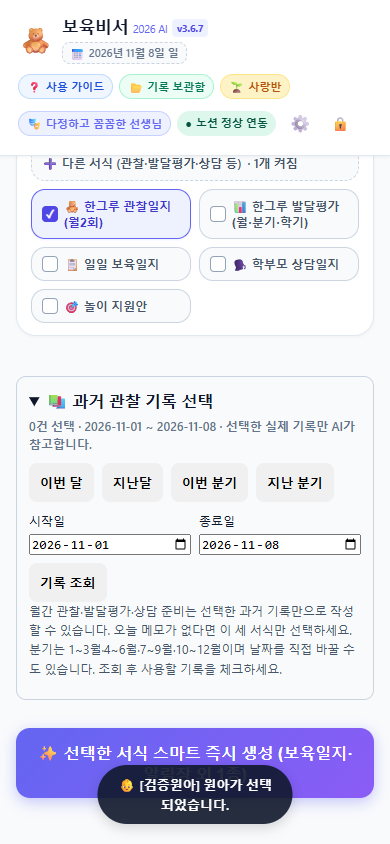
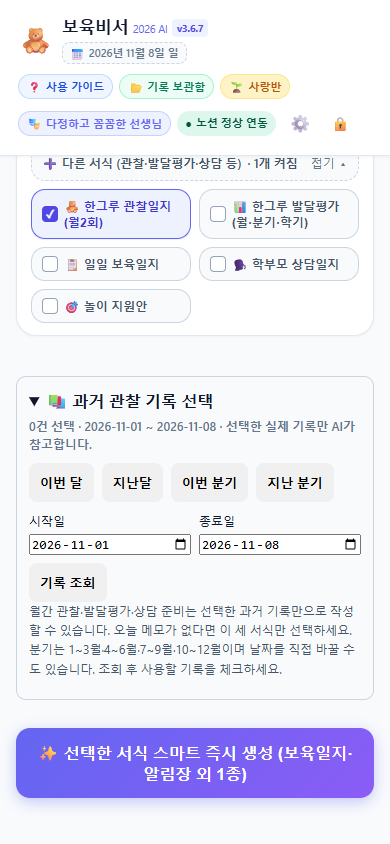
검수 수정: 서식 칩 폭·접힘 표시·검증 사진·기존 UTC 날짜 자르기
- 데스크톱에서 핵심 서식 칩 2개가 좁게 눌리던 문제: #formatChipsGrid 2칸 고정
- [다른 서식] 줄에 펼치기/접기 표시
- 토스트에 가려진 검증 사진 5장을 다시 촬영
- 계약 검사 지적: records-flow 기간 버튼을 UTC 연·월·일 조립으로, app.js 초기 날짜 대체값을 KST로
- daycare_spec 배치 설명을 번호 목록 하위 줄로 이동
- walkthrough에 수정 내용 기록

Agent: claude-code (claude-opus-5-5)

Changed region(s): [[0.2462, 0.8934, 0.7692, 0.9858], [0.8, 0.1848, 0.8615, 0.2156]]

diff --git a/public/js/records-flow.js b/public/js/records-flow.js
@@ -318,8 +318,10 @@
     const [year, month] = date.split('-').map(Number);
     let startMonth = kind.includes('Quarter') ? Math.floor((month - 1) / 3) * 3 : month - 1;
     if (kind.startsWith('previous')) startMonth -= kind.includes('Quarter') ? 3 : 1;
-    const start = new Date(Date.UTC(year, startMonth, 1)).toISOString().slice(0, 10);
-    const end = new Date(Date.UTC(year, startMonth + (kind.includes('Quarter') ? 3 : 1), 0)).toISOString().slice(0, 10);
+    // 달력 계산만 하므로 UTC 연·월·일로 직접 만든다. 음수 월은 Date.UTC가 전년도로 넘긴다.
+    const ymd = d => `${d.getUTCFullYear()}-${String(d.getUTCMonth() + 1).padStart(2, '0')}-${String(d.getUTCDate()).padStart(2, '0')}`;
+    const start = ymd(new Date(Date.UTC(year, startMonth, 1)));
+    const end = ymd(new Date(Date.UTC(year, startMonth + (kind.includes('Quarter') ? 3 : 1), 0)));
     el('evidenceFrom').value = start; el('evidenceTo').value = end > date ? date : end;
     changeEvidencePeriod();
   }

diff --git a/public/style.css b/public/style.css
@@ -2525,8 +2525,22 @@ button:disabled { cursor: wait; opacity: .65; }
   gap: 6px;
   margin-top: 8px;
 }
+/* 핵심 2종만 바깥에 있으므로 두 칸으로 고정한다. auto-fit이면 데스크톱에서 칩이 좁게 눌린다. */
+#formatChipsGrid {
+  grid-template-columns: repeat(2, minmax(0, 1fr));
+}
 .format-more {
   grid-column: 1 / -1;
+}
+.format-more > summary::-webkit-details-marker { display: none; }
+.format-more > summary::after {
+  content: '펼치기 ▾';
+  margin-left: auto;
+  font-weight: 500;
+  color: #64748B;
+}
+.format-more[open] > summary::after {
+  content: '접기 ▴';
 }
 .format-more > summary {
   display: flex;

diff --git a/public/app.js b/public/app.js
@@ -654,7 +654,7 @@ document.addEventListener('DOMContentLoaded', () => {
   // ============================================================================
   function init() {
     // 2. 소급 작성 날짜 초기화 (오늘 기본)
-    updateRecordDate(state.selectedDate || new Date().toISOString().split('T')[0]);
+    updateRecordDate(state.selectedDate || new Intl.DateTimeFormat('en-CA', { timeZone: 'Asia/Seoul' }).format(new Date()));
 
     // 3. 교사 UI 및 페르소나 동기화
     window.DaycareAuth?.syncTeacherSwitcherUI();

diff --git a/docs/daycare_spec.md b/docs/daycare_spec.md
@@ -11,7 +11,7 @@
 
 1. 일회용 등록 링크로 자기 휴대폰과 개인 PIN을 등록합니다.
 2. 로그인한 교사의 노션 담당반에서 원아·작성일을 선택하고 메모·사진을 입력합니다. 사진만 있으면 보이는 행동의 초안을 교사가 확인·저장합니다. 입력하거나 확인한 원시 메모는 서식 생성 없이 노션에 저장하고 다른 등록 기기에서 조회합니다.
-> 일상 작성 화면 배치(2026-11-08~): 메모 저장 버튼은 [관리] 접힘 안에 두고 오류·충돌 때 자동으로 펼친다. 사진 동의·사진 메모 버튼은 사진 1장 이상일 때만 보인다. 서식은 보육일지·알림장만 펼치고 나머지 5종은 [다른 서식] 안에 둔다. 과거 관찰 기록 선택은 관찰일지·발달평가·상담일지를 켰거나 선택한 기록이 있을 때 서식 아래에 보인다. 원아 연결은 메모 카드 맨 아래 접힘 한 줄이다.
+   - 일상 작성 화면 배치(2026-11-08~): 메모 저장 버튼은 [관리] 접힘 안에 두고 오류·충돌 때 자동으로 펼친다. 사진 동의·사진 메모 버튼은 사진 1장 이상일 때만 보인다. 서식은 보육일지·알림장만 펼치고 나머지 5종은 [다른 서식] 안에 둔다. 과거 관찰 기록 선택은 관찰일지·발달평가·상담일지를 켰거나 선택한 기록이 있을 때 서식 아래에 보인다. 원아 연결은 메모 카드 맨 아래 접힘 한 줄이다.
 3. 관찰·평가·상담 준비에 쓸 과거 기록을 기간별로 조회하고 직접 선택합니다.
 4. 필요한 7종 서식만 생성합니다. 서버는 원시 메모와 실제 선택 기록의 관찰 요약·원시 메모·관찰문을 전달합니다.
 5. 원아 ID·오늘 원문 발췌·관찰 요약을 확인하여 개인 기록으로 연결합니다. AI 생성 전 원시 메모 단계에서도 같은 연결을 지원합니다. 문장·놀이 관찰·배움·성찰·지원은 검수 후 저장합니다.

diff --git a/walkthrough.md b/walkthrough.md
@@ -24,6 +24,14 @@
 - 메모 저장 [관리] 펼침 (390×844): [daily-flow-mobile-manage.png](docs/verification/daily-flow-mobile-manage.png)
 - 데스크톱 레이아웃 (1280×900): [daily-flow-desktop.png](docs/verification/daily-flow-desktop.png)
 
+### 병합 전 교정 (Claude Code)
+- 데스크톱에서 핵심 서식 칩 2개가 좁게 눌려 글자가 줄바꿈되던 것을 고쳤다(`#formatChipsGrid` 2칸 고정). 다시 찍은 데스크톱 사진에서 두 칩이 각각 반 폭으로 보이고, 검증 스크립트에서 칩 너비가 300px을 넘는 것을 확인했다.
+- [다른 서식] 줄 오른쪽에 `펼치기 ▾`·`접기 ▴`를 표시해 열림 상태가 보이게 했다.
+- 처음 찍은 사진 5장 중 4장은 원아 선택 안내 토스트가 내용을 가렸다. 토스트가 사라진 뒤 5장을 다시 찍었고, 다시 열어 본 사진에는 토스트가 없다.
+- 계약 검사가 고친 파일 안의 기존 UTC 날짜 자르기를 지적했다. `records-flow.js` 기간 버튼은 UTC 연·월·일로 직접 조립하도록 바꿨고, 2026-01·2025-10~12·2026-11·2024-02 경계에서 이전 결과와 같은 것을 확인했다. `app.js` 초기 날짜의 대체값은 KST(`Asia/Seoul`)로 바꿨다. 이후 `verify_contracts.py --mode git-diff` 결과는 [ALL PASS]다.
+- `daycare_spec.md`에 넣은 배치 설명이 인용문이라 번호 목록을 끊었기 때문에, 2번 항목의 하위 줄로 옮겼다.
+- 시험: 처음 전체 실행 1회에서 1건이 실패했으나 출력 끝부분만 남아 어떤 시험인지 확인하지 못했다. 이어서 3회 다시 돌렸을 때는 모두 97개 통과였다. 로컬 서버를 막 내린 직후라 생긴 일시적 실패로 보이지만, 확인된 사실은 아니다.
+
 
 ## 관리자 사용 현황 화면 · 2026-10-28 · 운영 배포 완료
 
